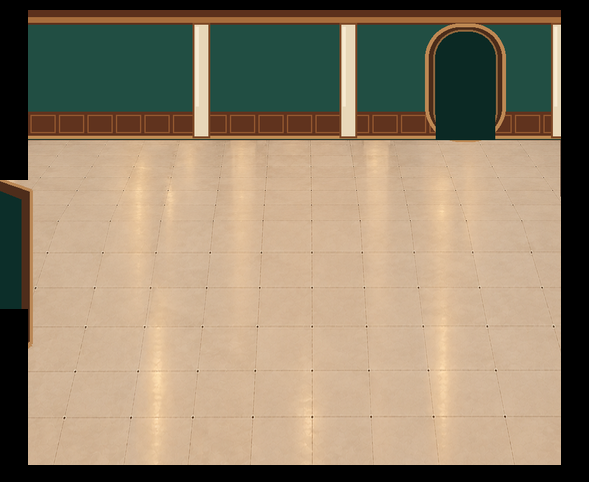
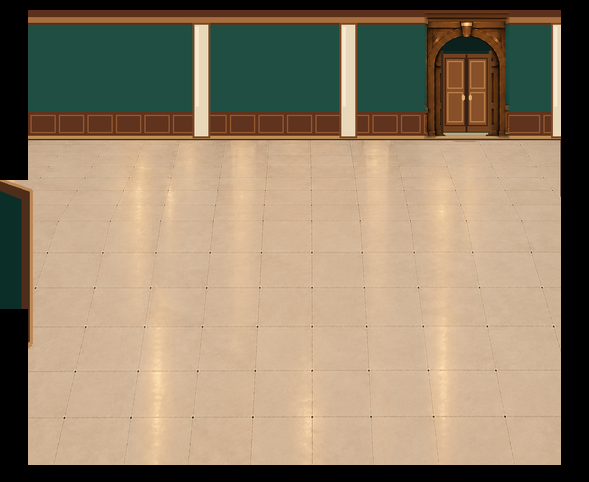
fix(a18): match gallery2 north door to gallery1 approved timber door

Changed region(s): [[0.7029, 0.0311, 0.8862, 0.3112]]

diff --git a/a18/layout-test/index.html b/a18/layout-test/index.html
@@ -7,7 +7,7 @@
 <link rel="manifest" href="manifest.webmanifest">
 <link rel="stylesheet" href="viewer.css">
 <link rel="stylesheet" href="viewer-frame.css"><link rel="stylesheet" href="viewer-minimal.css?v=1.10">
-<link rel="stylesheet" href="museum-navigation.css?v=1"><script src="layout-system.js?v=20261031-gallery2-5-portals-v3"></script><script src="museum-navigation.js?v=20261031-upper-side-v2"></script><script src="museum-progression.js?v=1"></script><script src="asset-renderer.js?v=larger2"></script><script src="museum-p3-renderer.js?v=20261031-gallery2-framed-v3"></script><script src="museum-p5-decorations.js?v=gallery5-three-20261029"></script><script src="entrance-renderer.js?v=20261031-upper-side-v2"></script><script src="museum-p2-storage.js?v=qa-level-gallery5-20261029"></script>
+<link rel="stylesheet" href="museum-navigation.css?v=1"><script src="layout-system.js?v=20261031-gallery2-5-portals-v3"></script><script src="museum-navigation.js?v=20261031-upper-side-v2"></script><script src="museum-progression.js?v=1"></script><script src="asset-renderer.js?v=larger2"></script><script src="museum-p3-renderer.js?v=20261031-gallery2-north-double-door-v1"></script><script src="museum-p5-decorations.js?v=gallery5-three-20261029"></script><script src="entrance-renderer.js?v=20261031-upper-side-v2"></script><script src="museum-p2-storage.js?v=qa-level-gallery5-20261029"></script>
 <script src="photo-prep.js" defer></script>
 <script src="smart-frame.js" defer></script>
 <script src="photo-tone.js?v=frame-photo-hq2-20261027" defer></script>

diff --git a/a18/layout-test/museum-p3-renderer.js b/a18/layout-test/museum-p3-renderer.js
@@ -36,7 +36,7 @@ async function loadImage(path){
    v.onerror=()=>reject(Error('E_P3_ASSET_LOAD '+path));
    // Avoid the previously deployed borderless room2 being returned from a
    // mobile browser's old PNG cache after the approved derived image changed.
-   v.src=path+(path.endsWith('gallery2_game_589x482.png')?'?v=20261031-gallery2-frame':'');
+   v.src=path+(path.endsWith('gallery2_game_589x482.png')?'?v=20261031-gallery2-north-double-door-v1':'');
   });
   const [w,h]=dim(path);
   if(im.naturalWidth!==w||im.naturalHeight!==h)throw Error('E_P3_ASSET_DIM '+path);

diff --git a/a18/layout-test/tests/gallery2_north_door_browser_e2e.py b/a18/layout-test/tests/gallery2_north_door_browser_e2e.py
@@ -1,0 +1,52 @@
+"""Real browser screenshots of gallery 2 north door matching gallery 1."""
+from pathlib import Path
+from http.server import ThreadingHTTPServer,SimpleHTTPRequestHandler
+from functools import partial
+from threading import Thread
+from playwright.sync_api import sync_playwright
+ROOT=Path(r"C:\Users\User\source\repos\web-tools-preview-a18-gallery-display-names-20261028")
+OUT=ROOT/"a18/layout-test/tests/gallery2-northdoor-qa"
+OUT.mkdir(exist_ok=True)
+class Quiet(SimpleHTTPRequestHandler):
+ def log_message(self,*a):pass
+srv=ThreadingHTTPServer(("127.0.0.1",0),partial(Quiet,directory=str(ROOT)))
+Thread(target=srv.serve_forever,daemon=True).start()
+try:
+ with sync_playwright() as pw:
+  browser=pw.chromium.launch(channel="chrome",headless=True)
+  for w,h in ((844,390),(390,844)):
+   page=browser.new_page(viewport={"width":w,"height":h},is_mobile=True,has_touch=True)
+   errs=[];fail=[]
+   page.on("pageerror",lambda x:errs.append(str(x)))
+   page.on("requestfailed",lambda x:fail.append(x.url))
+   res=page.goto(f"http://127.0.0.1:{srv.server_port}/a18/layout-test/index.html?qa=1&hitboxes=1")
+   assert res.status==200
+   page.locator("#a18OpeningStart").click();page.locator("#a18OpeningSkip").click()
+   page.locator("#a18PlayerName").fill("北扉確認")
+   page.locator("#confirmName").click()
+   page.wait_for_function("window.__A18_SCENE_STUDY__?.ready()===true")
+   if page.locator("#skipTour").count() and page.locator("#skipTour").is_visible():page.locator("#skipTour").click()
+   if page.locator("#overlay").is_visible():page.evaluate("document.querySelector('#overlay').click()")
+   page.locator("#settingsGear").click()
+   page.locator("#testMuseumLevel").select_option("6")
+   page.locator("#applyTestMuseumLevel").click()
+   page.wait_for_function("window.__A18_SCENE_STUDY__.state().museumLevel===6")
+   assert page.evaluate("window.__A18_SCENE_STUDY__.changeScene(2,{direction:'east'})")
+   page.wait_for_function("window.__A18_SCENE_STUDY__.state().galleryIndex===2")
+   page.wait_for_timeout(400)
+   assert page.evaluate("window.__A18_SCENE_STUDY__.collisionOverlay().enabled")
+   page.screenshot(path=str(OUT/f"gallery2_northdoor_hitboxes_{w}.png"))
+   page.locator("#hitboxToggle").click(force=True)
+   page.wait_for_timeout(80)
+   page.screenshot(path=str(OUT/f"gallery2_northdoor_clean_{w}.png"))
+   if w==390:
+    assert page.evaluate("window.__A18_SCENE_STUDY__.qaPlaceAt(465,220)")
+    page.wait_for_timeout(170)
+    page.screenshot(path=str(OUT/"gallery2_northdoor_mobile_focused_390.png"))
+   assert not errs,errs
+   assert not fail,fail
+   print(f"PASS actual game Chrome {w}x{h}, north door rendered and trigger unchanged",flush=True)
+   page.close()
+  browser.close()
+finally:
+ srv.shutdown();srv.server_close()

diff --git a/a18/layout-test/tests/gallery2_north_door_regression.py b/a18/layout-test/tests/gallery2_north_door_regression.py
@@ -1,0 +1,41 @@
+"""Gallery2 north door matches Gallery1, without altering other approved pixels."""
+from pathlib import Path
+from PIL import Image,ImageDraw
+import hashlib,json
+
+root=Path(__file__).resolve().parents[1]
+art=root/"assets/approved-galleries"
+manifest=json.loads((art/"approved-gallery-manifest.json").read_text(encoding="utf-8"))
+ref=Image.open(art/"gallery1_game_589x482.png").convert("RGB")
+now=Image.open(art/"gallery2_game_589x482.png").convert("RGB")
+approved=art/"gallery2_approved_930x582.png"
+assert hashlib.sha256(approved.read_bytes()).hexdigest()==manifest["galleries"]["2"]["sourceSha256"]
+assert hashlib.sha256((art/"gallery2_game_589x482.png").read_bytes()).hexdigest()==manifest["galleries"]["2"]["gameSha256"]
+assert now.size==(589,482)
+# Exact timber arch and double-door textures are borrowed from Gallery1.
+for x,y in [(200,35),(224,46),(224,65),(207,100),(237,100),(228,113),(224,132)]:
+ assert now.getpixel((x+242,y))==ref.getpixel((x,y)),(x,y)
+# Independently reconstruct the old gallery2 architectural base using the
+# approved 930x582 art. Replacing the north door must not edit any other pixels.
+original=Image.open(approved).convert("RGB")
+scale=589/930
+top_dst=round(350*scale)
+before=Image.new("RGB",(589,482))
+before.paste(original.crop((0,0,930,350)).resize((589,top_dst),Image.Resampling.LANCZOS),(0,0))
+before.paste(original.crop((0,350,930,582)).resize((589,482-top_dst),Image.Resampling.LANCZOS),(0,top_dst))
+draw=ImageDraw.Draw(before)
+for box in [(0,0,27,179),(0,309,27,481),(561,0,588,481),(28,0,560,9),(28,465,560,481)]:
+ draw.rectangle(box,fill=(0,0,0))
+changed=0
+for y in range(482):
+ for x in range(589):
+  if before.getpixel((x,y))!=now.getpixel((x,y)):
+   changed+=1
+   assert 419<=x<517 and 10<=y<=140,("UNRELATED_ART_PIXEL_CHANGED",x,y)
+assert changed>6000,("NORTH_DOOR_NOT_REPLACED",changed)
+for x,y in [(0,0),(15,155),(15,345),(587,172),(300,2),(320,473)]:
+ assert now.getpixel((x,y))==(0,0,0)
+for x,y in [(15,244),(55,238),(291,220)]:
+ assert now.getpixel((x,y))!=(0,0,0)
+print("PASS Gallery2 north double timber door matches Gallery1",changed,"door-only changed pixels")
+print("PASS approved source, surrounding wall, Gallery2 west passage and black frame intact")

diff --git a/a18/layout-test/tests/build_approved_gallery_game_assets.py b/a18/layout-test/tests/build_approved_gallery_game_assets.py
@@ -14,6 +14,30 @@ entries={}
 scale=589/930
 top_src=350
 top_dst=round(top_src*scale)
+rendered_gallery1=None
+
+def replace_gallery2_north_arch_with_gallery1_door(game, gallery1):
+    # Approved room2 wall/floor remain untouched except the former arched
+    # north opening. The room1 finished two-leaf timber door is reused at
+    # exactly the same native logical art scale.
+    assert game.size==(589,482) and gallery1.size==(589,482)
+    original=game.copy()
+    px=game.load()
+    # Reconstruct the room2 wall behind its former wide oval, sampling only
+    # the adjacent untouched room2 wall panel. Otherwise remnants of the old
+    # gold oval would show through the soft outer edges.
+    for y in range(10,141):
+        for x in range(419,517):
+            px[x,y]=original.getpixel((396+(x-419)%14,y))
+    patch=gallery1.crop((181,10,269,140))
+    mask=Image.new("L",patch.size,0)
+    mm=mask.load()
+    for y in range(patch.height):
+        for x in range(patch.width):
+            edge=min(x,patch.width-1-x,y,patch.height-1-y)
+            mm[x,y]=255 if edge>=5 else int(255*max(0,edge/5))
+    game.paste(patch,(423,10),mask)
+
 for room in range(1,6):
     path=src/f"gallery{room}"/"background_approved.png"
     raw=path.read_bytes()
@@ -37,6 +61,12 @@ for room in range(1,6):
         draw.rectangle((561,0,588,481),fill=black)
         draw.rectangle((28,0,560,9),fill=black)
         draw.rectangle((28,465,560,481),fill=black)
+
+    if room==1:
+        rendered_gallery1=game.copy()
+    if room==2:
+        if rendered_gallery1 is None:raise RuntimeError("E_GALLERY1_DOOR_REFERENCE_MISSING")
+        replace_gallery2_north_arch_with_gallery1_door(game,rendered_gallery1)
 
     derived=dst/f"gallery{room}_game_589x482.png"
     game.save(derived,optimize=True)

diff --git a/a18/layout-test/A18_GALLERY2_NORTH_DOOR_20261031.md b/a18/layout-test/A18_GALLERY2_NORTH_DOOR_20261031.md
@@ -1,0 +1,29 @@
+# A18｜展示室2北側扉を展示室1の意匠に統一（2026-10-31）
+
+## ユーザー依頼・実際の画像確認
+- 展示室2の北側通路は、修正前の深緑のアーチ開口のみで、展示室1北側の木製アーチ＋両開き扉と異なっていた。
+- 実際の採用済みゲーム画像 `gallery1_game_589x482.png`、`gallery2_game_589x482.png`、承認済み930×582原本を確認して作業。
+- 展示室1の**実物の木製装飾アーチと両開き扉**を、同じピクセルスケールで展示室2の北側へ転用した。色や造形をAI生成で作り直していない。
+- 重複する旧アーチは、隣接する展示室2の壁材と腰壁材で局所的に復元してから合成。継ぎ目は外周5pxでなじませ、元のアーチが二重に残らないようにした。
+
+## 変更・維持
+- 変更した実表示素材：`assets/approved-galleries/gallery2_game_589x482.png` **のみ**。該当北扉周辺（ゲーム画像の x419〜516、y10〜140）外の画素は完全一致。変更11,562px。
+- `tests/build_approved_gallery_game_assets.py` に同一生成手順を追加。開発済みの展示室1ゲーム用画像から決定的に再生成できる。
+- `approved-gallery-manifest.json` は展示室2派生画像のSHA256のみ更新。展示室1〜5の承認原本／独立展示壁／他の派生ゲーム画像は変更なし。
+- モバイルブラウザの古い展示室2画像キャッシュを回避するため、`museum-p3-renderer.js` の展示室2画像URLと `index.html` のP3スクリプト読み込みだけに新バージョン指定。
+- **変更しないもの**：展示室2の四角い黒枠／左上西通路／出現位置(58,239)／北通路（展示室4への移動）／当たり判定／額縁やスタッフ／物語・写真・館レベル。
+
+## QA実績
+- `tests/gallery2_north_door_regression.py`：展示室1の実木製扉の対応画素が展示室2へ移植されていること、他の画像部分は画素完全一致、承認原本SHA256、既存黒枠と左通路の維持。
+- `tests/gallery2_framing_regression.py`：既存黒枠・通路を維持。
+- **正規再生成テスト**：承認済み原本から隔離TEMP内で全5展示室のゲーム用画像を再生成。全5枚がmanifestのSHA256と完全一致し、元画像は書き換えていない。
+- `tests/approved_portals_and_wall_collisions.js`：6室14方向の移動・到着座標・壁／額縁／スタッフの衝突。
+- `fixed-museum-level-regression.js`、`gallery5-test-level-regression.js`、`gallery-room-labels-regression.js`、`frame-restore-regression.js`：既存回帰テストPASS。
+- `tests/gallery2_north_door_browser_e2e.py`：Chrome 844×390 / 390×844 の実ゲームに展示室2画像が描画され、判定表示ON/OFFの画像を取得。スマホは扉が画面に収まる位置へ移動した `gallery2_northdoor_mobile_focused_390.png` も記録。
+- `tests/actual_door_crossings_e2e.py`：PC/スマホで14方向の実歩行移動成功。
+- `tests/presentation_level_real_game_e2e.py`：Lv6設定とストーリー独立、14方向の移動、保存・読込に問題なし。
+- 視覚的な比較：`tests/gallery2-northdoor-qa/door_design_comparison.png`（修正前／修正後／展示室1の正本）。
+
+## Gitと公開範囲
+- 開発repo `web-tools-preview` の既存 `work/a18-gallery1-layout-concepts-20261028` 上で実装・QA。workからissueまたはmainへ無断マージしない。
+- 今回のユーザー指示は「扉を修正して再接続」なので、**正式ゲームPagesの公開リポジトリ `a18-totteoki-museum` は未更新**。公開指示があれば対象実行ファイルと画像だけをwork→issue→PR→mainの経路で検証して反映する。
